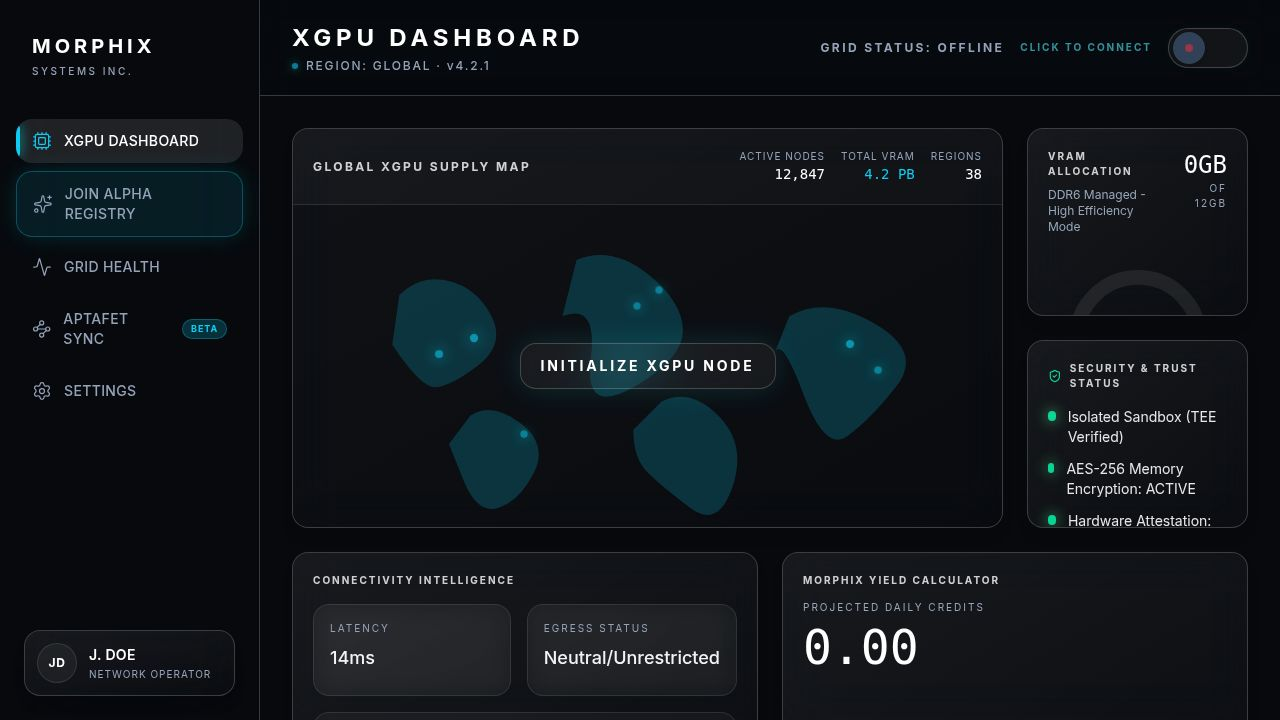
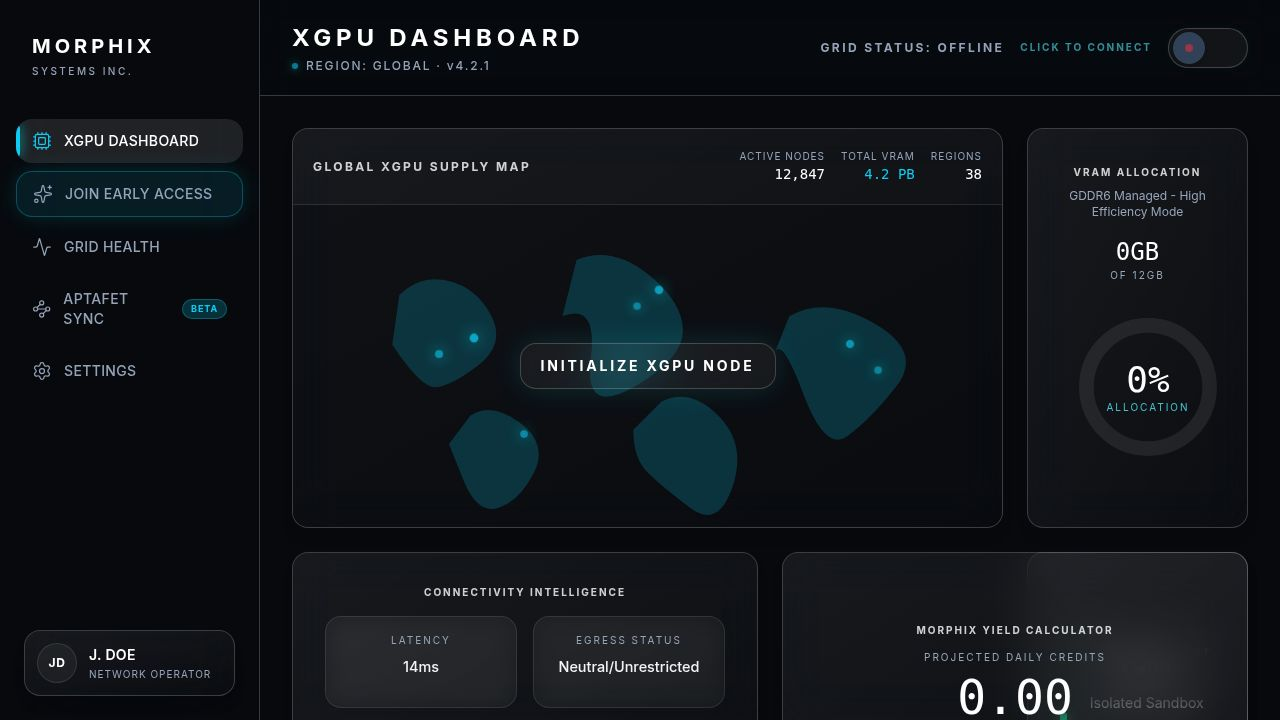
Update signup form and branding to improve user experience
Replaces 'Monthly Spend' input with 'Organization/Project Name' in the renter form, updates "Alpha Registry" to "Early Access" globally, and aligns form fields for better UI.

Replit-Commit-Author: Agent
Replit-Commit-Session-Id: 7f33c672-b395-4e4f-a13a-f57e576fdb40
Replit-Commit-Checkpoint-Type: full_checkpoint
Replit-Commit-Event-Id: 36272728-d87c-4205-9141-ed81e3f42700
Replit-Commit-Screenshot-Url: https://storage.googleapis.com/screenshot-production-us-central1/4a4365dc-7074-45ab-b66d-7d9cc8cdd0bc/7f33c672-b395-4e4f-a13a-f57e576fdb40/GKNK3D8
Replit-Helium-Checkpoint-Created: true

diff --git a/artifacts/xgpu-dashboard/src/pages/Join.tsx b/artifacts/xgpu-dashboard/src/pages/Join.tsx
@@ -14,8 +14,8 @@ export default function Join() {
         <div className="mt-6 rounded-2xl border border-primary/30 bg-primary/10 px-5 py-4 text-sm font-medium text-white shadow-[0_0_28px_rgba(0,255,255,0.12)]">
           JOIN THE GENESIS QUEUE: Early GPU providers receive First-in-Line Priority and zero commission charges (Free! On us!) on their first 1,000 compute hours.
         </div>
-        <div className="mt-8 grid gap-6 md:grid-cols-2">
-          <section className="glass-panel p-6 space-y-4">
+        <div className="mt-8 grid gap-8 md:grid-cols-2">
+          <section className="glass-panel p-6 space-y-4 flex flex-col">
             <div>
               <p className="text-xs uppercase tracking-[0.2em] text-muted-foreground">Expression of Interest</p>
               <h1 className="mt-2 text-2xl font-semibold text-white">Join as a Resource Provider</h1>
@@ -38,7 +38,7 @@ export default function Join() {
               </label>
             </form>
           </section>
-          <section className="glass-panel p-6 space-y-4">
+          <section className="glass-panel p-6 space-y-4 flex flex-col">
             <div>
               <p className="text-xs uppercase tracking-[0.2em] text-muted-foreground">Expression of Interest</p>
               <h2 className="mt-2 text-2xl font-semibold text-white">Join as a Compute Renter</h2>
@@ -49,7 +49,7 @@ export default function Join() {
             <form className="grid gap-4">
               <input className="rounded-xl border border-white/10 bg-background/60 px-4 py-3" placeholder="Name" />
               <input className="rounded-xl border border-white/10 bg-background/60 px-4 py-3" placeholder="Email" />
-              <input className="rounded-xl border border-white/10 bg-background/60 px-4 py-3" placeholder="Monthly Spend" />
+              <input className="rounded-xl border border-white/10 bg-background/60 px-4 py-3" placeholder="Organization/Project Name" />
               <label className="flex items-center gap-3 text-sm text-muted-foreground">
                 <input type="checkbox" />
                 I Agree
@@ -58,7 +58,7 @@ export default function Join() {
           </section>
         </div>
         <p className="mt-8 text-sm leading-6 text-muted-foreground">
-          Alpha Registry is a non-binding Expression of Interest (EOI). You are simply securing your spot in the queue. No hardware access or financial commitment is required today.
+          Early Access is a non-binding Expression of Interest (EOI). You are simply securing your spot in the queue. No hardware access or financial commitment is required today.
         </p>
       </div>
     </div>